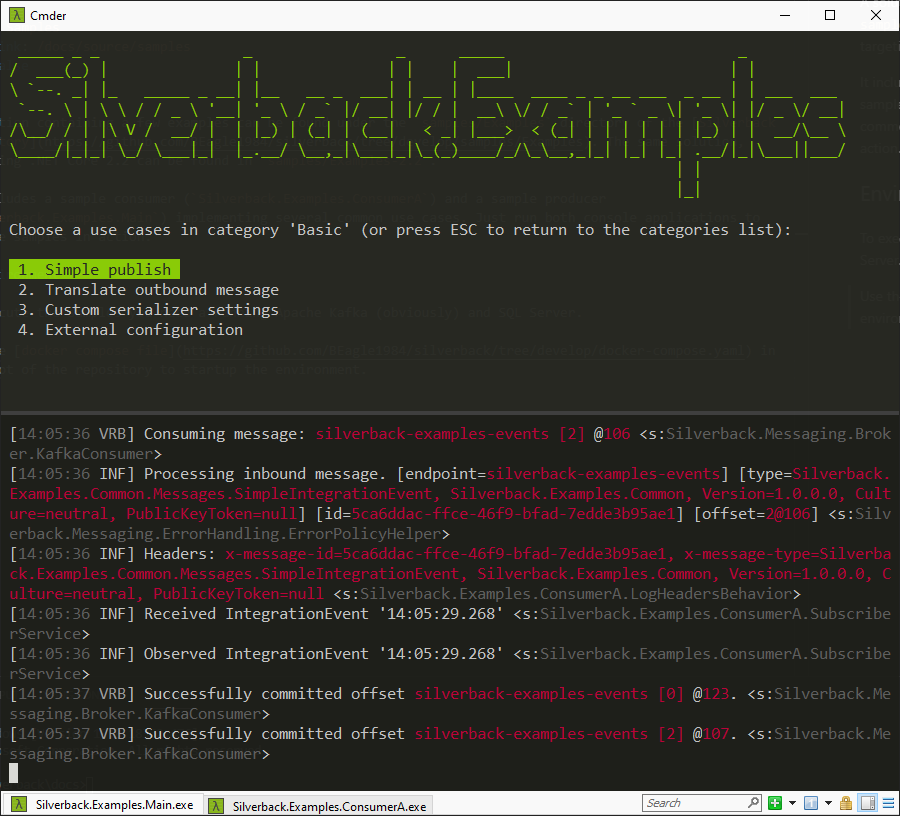
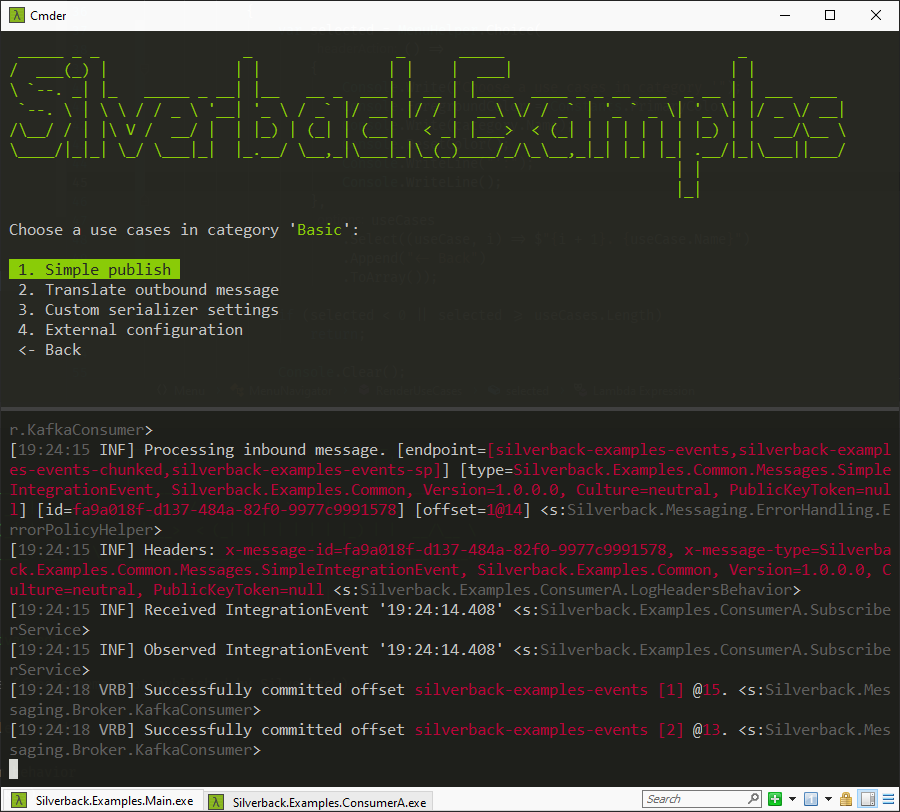
Fixed consuming of KafkaConsumerEndpoint with multiple topics (Names)

diff --git a/samples/Examples/src/Silverback.Examples.Main/Menu/MenuNavigator.cs b/samples/Examples/src/Silverback.Examples.Main/Menu/MenuNavigator.cs
@@ -15,10 +15,13 @@ namespace Silverback.Examples.Main.Menu
             {
                 var categories = MenuItem.GetAll<UseCaseCategory>();
 
-                var selected = MenuHelper.Choice("Choose a category (or press ESC to exit):",
-                    categories.Select((category, i) => $"{i+1}. {category.Name}").ToArray());
+                var selected = MenuHelper.Choice("Choose a category:",
+                    categories
+                        .Select((category, i) => $"{i+1}. {category.Name}")
+                        .Append("<- Exit")
+                        .ToArray());
 
-                if (selected < 0)
+                if (selected < 0|| selected >= categories.Length)
                     return;
 
                 RenderUseCases(categories[selected]);
@@ -31,10 +34,22 @@ namespace Silverback.Examples.Main.Menu
 
             while (true)
             {
-                var selected = MenuHelper.Choice($"Choose a use cases in category '{category.Name}' (or press ESC to return to the categories list):",
-                    useCases.Select((useCase, i) => $"{i+1}. {useCase.Name}").ToArray());
+                var selected = MenuHelper.Choice(
+                    () =>
+                    {
+                        Console.Write("Choose a use cases in category '");
+                        Console.ForegroundColor = Constants.PrimaryColor;
+                        Console.Write(category.Name);
+                        Console.ResetColor();
+                        Console.WriteLine("':");
+                        Console.WriteLine();
+                    },
+                    useCases
+                        .Select((useCase, i) => $"{i + 1}. {useCase.Name}")
+                        .Append("<- Back")
+                        .ToArray());
 
-                if (selected < 0)
+                if (selected < 0 || selected >= useCases.Length)
                     return;
 
                 Console.Clear();

diff --git a/samples/Examples/src/Silverback.Examples.Main/UseCases/Advanced/SameProcessUseCase.cs b/samples/Examples/src/Silverback.Examples.Main/UseCases/Advanced/SameProcessUseCase.cs
@@ -32,19 +32,19 @@ namespace Silverback.Examples.Main.UseCases.Advanced
             configurator
                 .Subscribe((SimpleIntegrationEvent message) => logger.LogInformation($"Received SimpleIntegrationEvent '{message.Content}"))
                 .Connect(endpoints => endpoints
-                    .AddOutbound<IIntegrationEvent>(new KafkaProducerEndpoint("silverback-examples-events")
+                    .AddOutbound<IIntegrationEvent>(new KafkaProducerEndpoint("silverback-examples-events-sp")
                     {
                         Configuration = new KafkaProducerConfig
                         {
                             BootstrapServers = "PLAINTEXT://localhost:9092"
                         }
                     })
-                    .AddInbound(new KafkaConsumerEndpoint("silverback-examples-events")
+                    .AddInbound(new KafkaConsumerEndpoint("silverback-examples-events-sp")
                     {
                         Configuration = new KafkaConsumerConfig
                         {
                             BootstrapServers = "PLAINTEXT://localhost:9092",
-                            GroupId = "SameProcessUseCase",
+                            GroupId = "same-process-uc",
                             AutoOffsetReset = AutoOffsetReset.Earliest
                         }
                     }));

diff --git a/samples/Examples/src/Silverback.Examples.ConsumerA/ConsumerServiceA.cs b/samples/Examples/src/Silverback.Examples.ConsumerA/ConsumerServiceA.cs
@@ -42,7 +42,7 @@ namespace Silverback.Examples.ConsumerA
 
             var broker = configurator
                 .Connect(endpoints => endpoints
-                    .AddInbound(CreateConsumerEndpoint("silverback-examples-events"))
+                    .AddInbound(CreateConsumerEndpoint("silverback-examples-events", "silverback-examples-events-chunked", "silverback-examples-events-sp"))
                     .AddInbound(CreateConsumerEndpoint("silverback-examples-batch"),
                         settings: new InboundConnectorSettings
                         {
@@ -108,8 +108,14 @@ namespace Silverback.Examples.ConsumerA
         }
 
         private static KafkaConsumerEndpoint CreateConsumerEndpoint(string name, IMessageSerializer messageSerializer = null)
-        {
-            var endpoint = new KafkaConsumerEndpoint(name)
+            => CreateConsumerEndpoint(new[] { name }, messageSerializer);
+
+        private static KafkaConsumerEndpoint CreateConsumerEndpoint(params string[] names)
+            => CreateConsumerEndpoint(names, null);
+
+        private static KafkaConsumerEndpoint CreateConsumerEndpoint(string[] names, IMessageSerializer messageSerializer)
+            {
+            var endpoint = new KafkaConsumerEndpoint(names)
             {
                 Configuration = new KafkaConsumerConfig
                 {

diff --git a/samples/Examples/src/Silverback.Examples.Main/Menu/MenuHelper.cs b/samples/Examples/src/Silverback.Examples.Main/Menu/MenuHelper.cs
@@ -7,7 +7,10 @@ namespace Silverback.Examples.Main.Menu
 {
 public class MenuHelper
 {
-    public static int Choice(string title, params string[] options)
+    public static int Choice(string title, params string[] options) =>
+        Choice(() => Console.WriteLine(title + Environment.NewLine), options);
+
+    public static int Choice(Action headerAction, params string[] options)
     {
         var selected = 0;
 
@@ -19,9 +22,8 @@ public class MenuHelper
         {
             Console.Clear();
             ShowSplash();
-            
-            Console.WriteLine(title);
-            Console.WriteLine();
+
+            headerAction?.Invoke();
 
             for (var i = 0; i < options.Length; i++)
             {
@@ -56,8 +58,6 @@ public class MenuHelper
                         selected++;
                     break;
                 }
-                case ConsoleKey.Backspace:
-                case ConsoleKey.LeftArrow:
                 case ConsoleKey.Escape:
                 {
                     return -1;

diff --git a/src/Silverback.Integration.Kafka/Messaging/Broker/KafkaConsumer.cs b/src/Silverback.Integration.Kafka/Messaging/Broker/KafkaConsumer.cs
@@ -67,7 +67,7 @@ namespace Silverback.Messaging.Broker
         {
             // Checking if the message was sent to the subscribed topic is necessary
             // when reusing the same consumer for multiple topics.
-            if (!tpo.Topic.Equals(Endpoint.Name, StringComparison.InvariantCultureIgnoreCase))
+            if (!Endpoint.Names.Any(endpointName => tpo.Topic.Equals(endpointName, StringComparison.InvariantCultureIgnoreCase)))
                 return;
 
             await TryHandleMessage(message, tpo);

diff --git a/samples/Examples/src/Silverback.Examples.Main/UseCases/Advanced/ChunkingUseCase.cs b/samples/Examples/src/Silverback.Examples.Main/UseCases/Advanced/ChunkingUseCase.cs
@@ -30,7 +30,7 @@ namespace Silverback.Examples.Main.UseCases.Advanced
                 .AddOutbound<IIntegrationEvent>(CreateEndpoint()));
 
         private KafkaEndpoint CreateEndpoint() =>
-            new KafkaProducerEndpoint("silverback-examples-events")
+            new KafkaProducerEndpoint("silverback-examples-events-chunked")
             {
                 Configuration = new KafkaProducerConfig
                 {

diff --git a/src/Silverback.Integration.Kafka/Messaging/Broker/InnerConsumerWrapper.cs b/src/Silverback.Integration.Kafka/Messaging/Broker/InnerConsumerWrapper.cs
@@ -87,7 +87,7 @@ namespace Silverback.Messaging.Broker
             Subscribe();
         }
 
-        private void Subscribe() => _innerConsumer.Subscribe(_endpoints.Select(e => e.Name));
+        private void Subscribe() => _innerConsumer.Subscribe(_endpoints.SelectMany(e => e.Names));
 
         private Confluent.Kafka.IConsumer<byte[], byte[]> BuildConfluentConsumer()
         {

diff --git a/docs/_docs/0-introduction/003-releases.md b/docs/_docs/0-introduction/003-releases.md
@@ -12,6 +12,7 @@ toc: true
 ### Fixes
 * Fixed `OutboundQueueHealthCheck` [[#43](https://github.com/BEagle1984/silverback/issues/43)]
 * The `KafkaProducer` is not disposed by default anymore when a `KafkaException` in thrown (creating too many instances of the producer over a short time span could lead to too many active TCP connections)
+* Fixed the bug preventing a `KafkaConsumerEndpoint` pointing to multiple topics to be successfully subscribed
 
 ## [1.0.4](https://github.com/BEagle1984/silverback/releases/tag/1.0.4)
 
